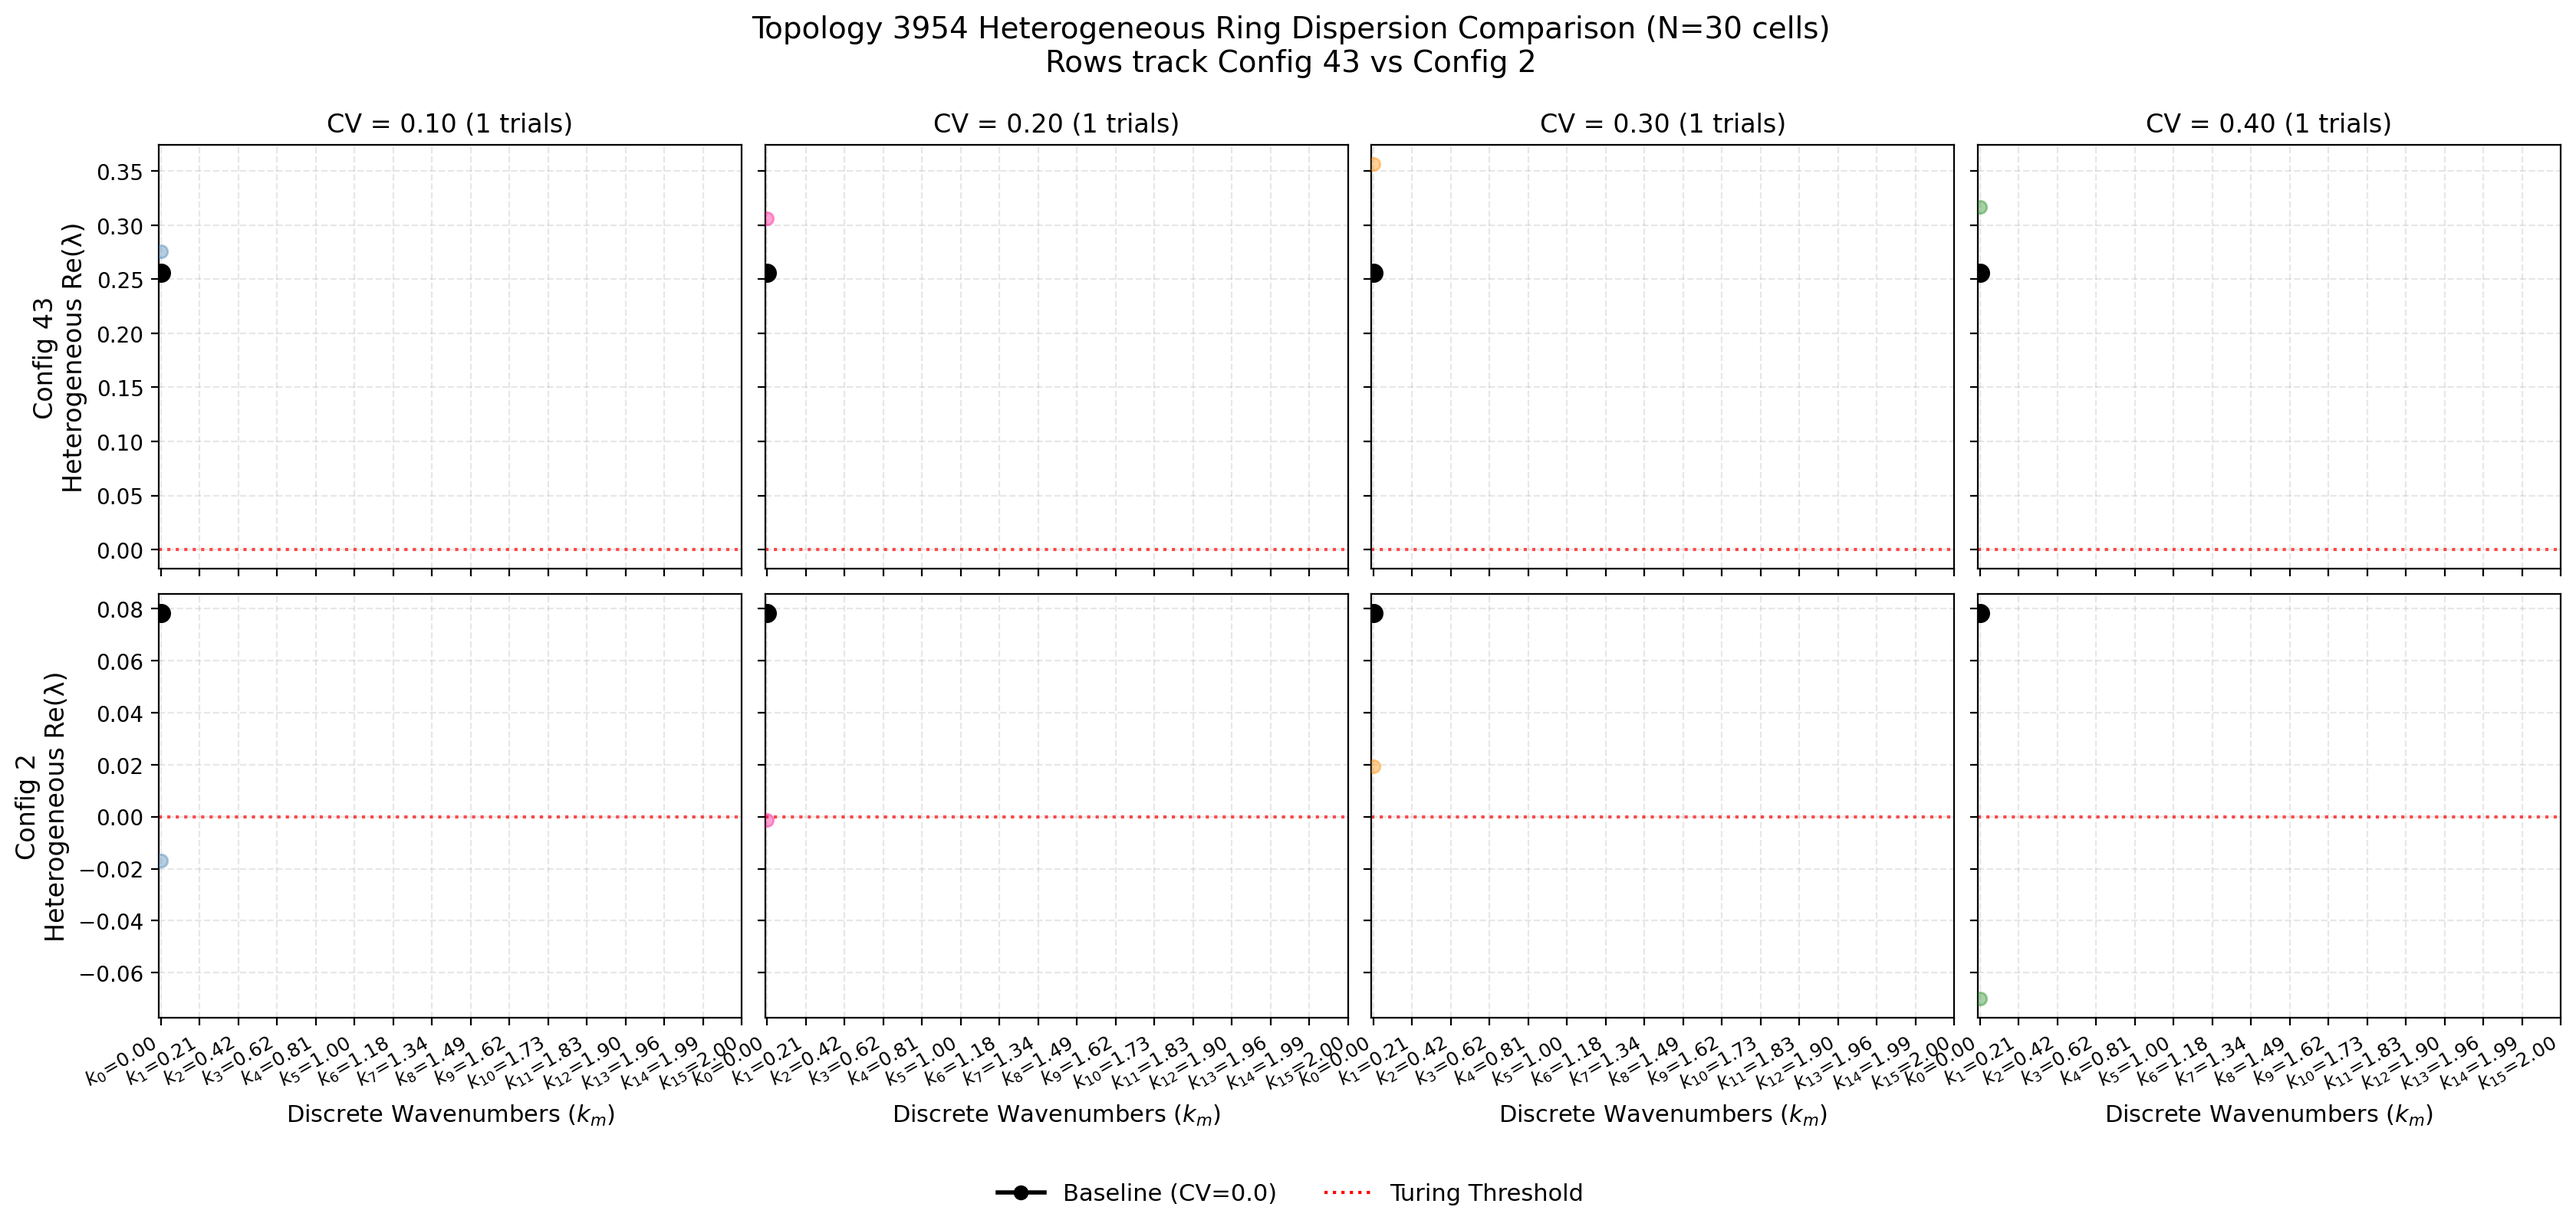
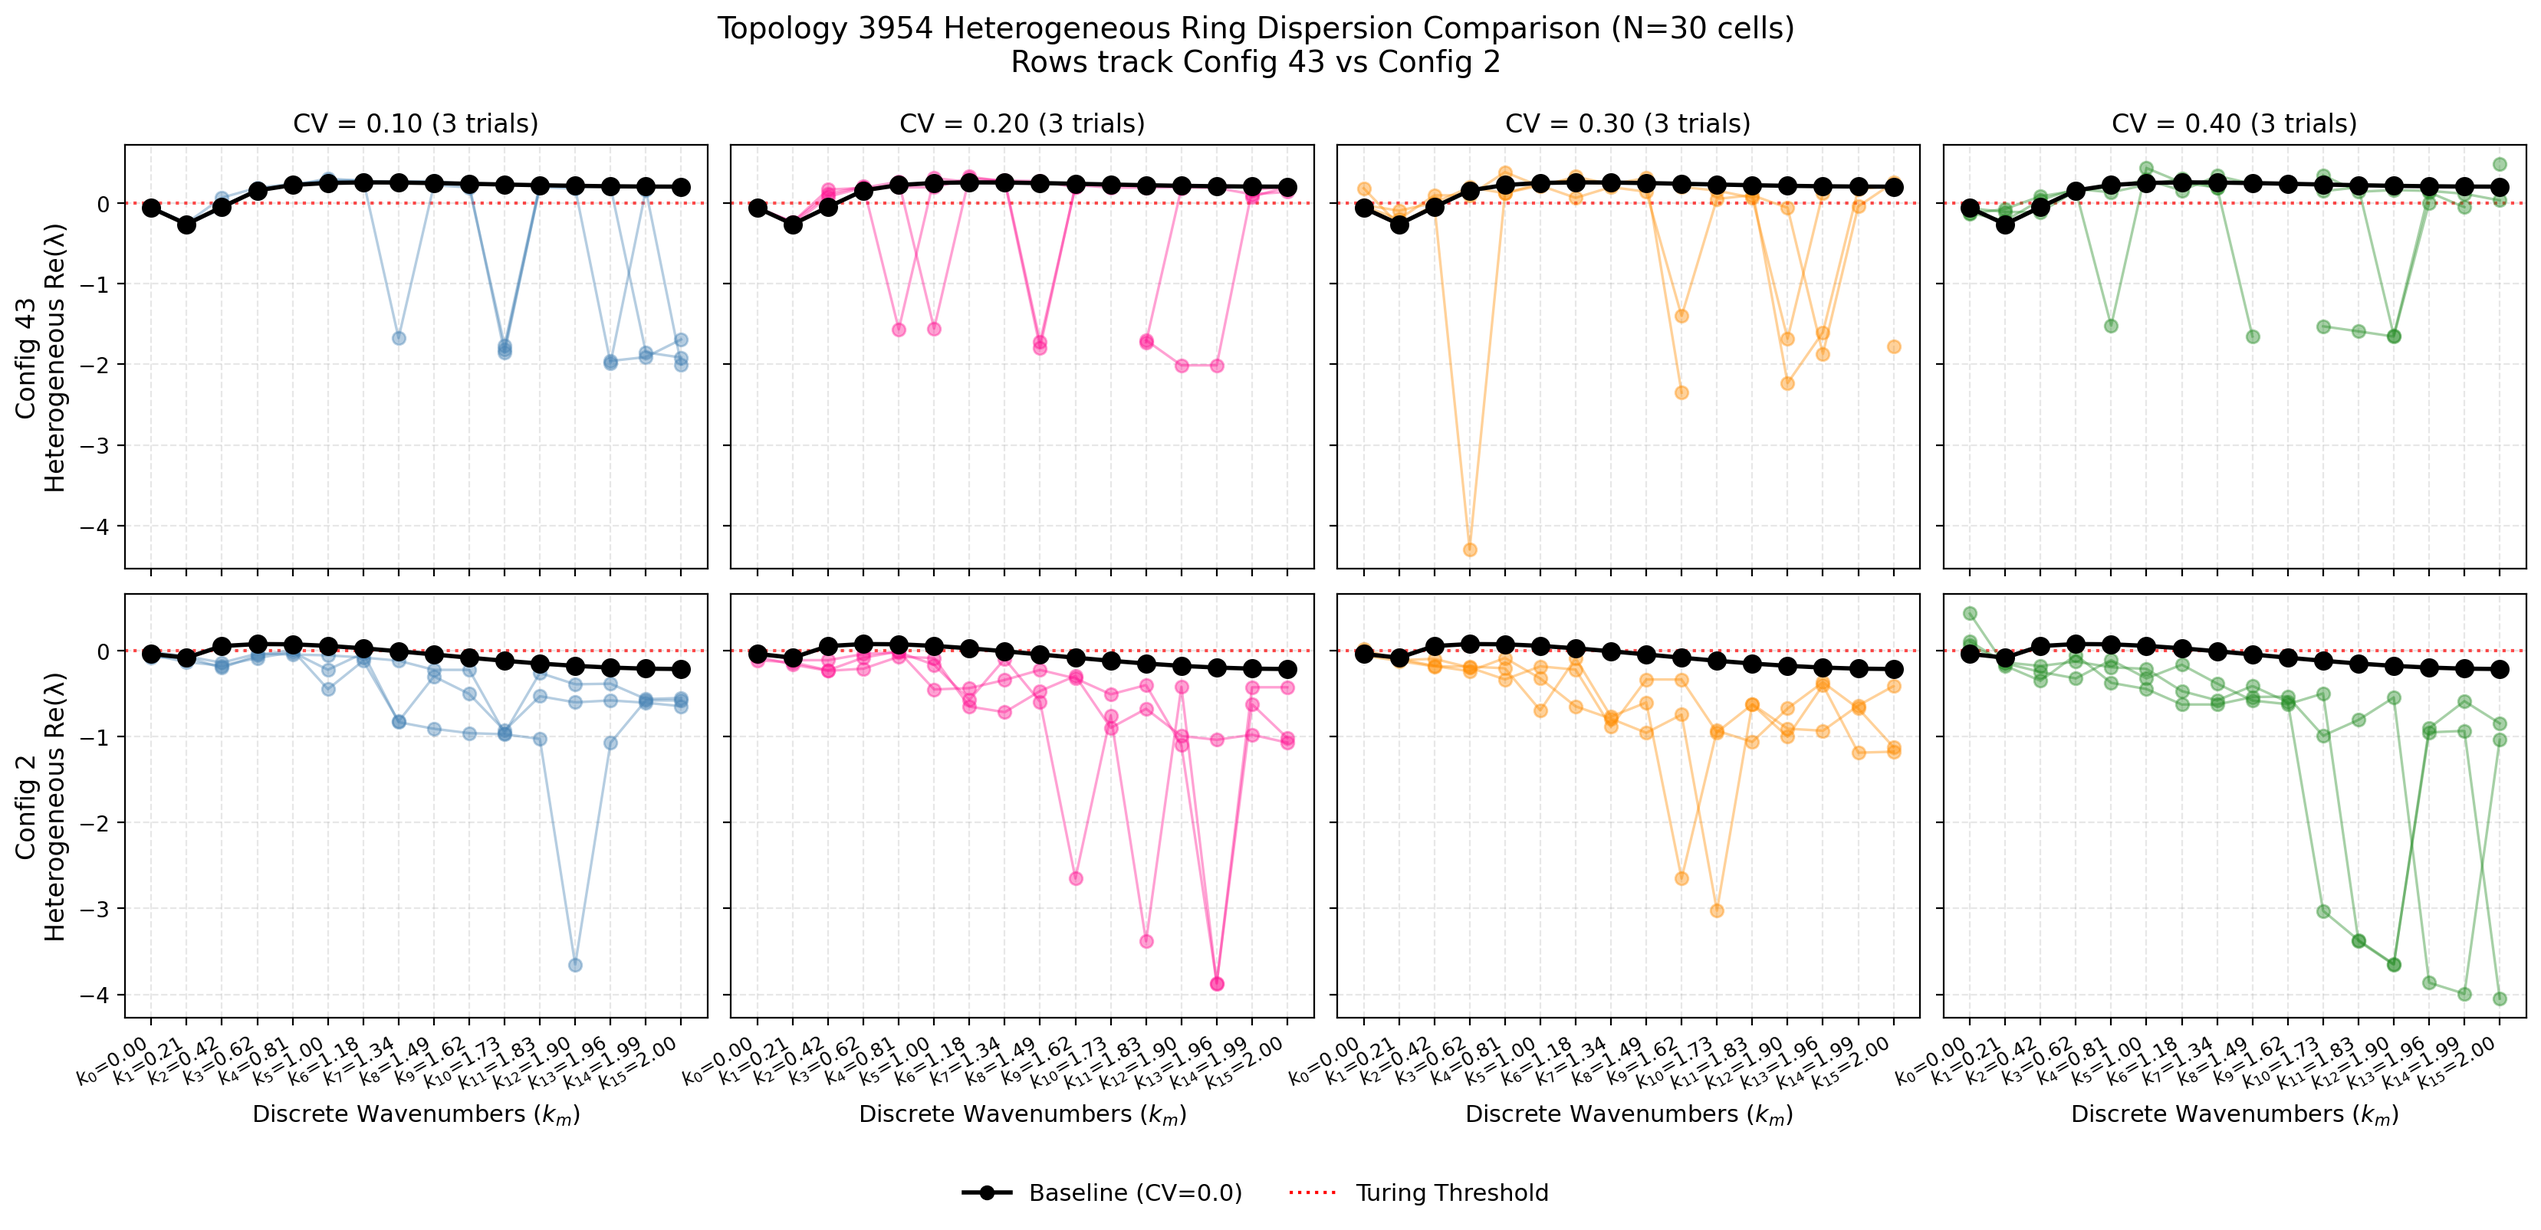
desperately trying to fix things

diff --git a/BiologicalRealism/dispersion_ring_3954.py b/BiologicalRealism/dispersion_ring_3954.py
@@ -10,7 +10,7 @@ from heterogenous_ring_3954 import compute_jacobian, find_steady_state, build_ri
 CSV_PATH = '../TopologyRanking/Topology3954/3954_FINAL_lhs_results_parameters.csv'
 CONFIG_IDS = [43, 2]
 N_RING = 30
-N_TRIALS = 1
+N_TRIALS = 3
 CV_VALUES = [0.0, 0.1, 0.2, 0.3, 0.4]
 SEED = 42
 
@@ -288,16 +288,18 @@ type_i = df[df['classification'] == 'Type-I']
 
 
 def find_dominant_k(eigenvector, N):
-    """
-    Finds the dominant wavenumber m by looking at the combined magnitude 
-    of all species across the cells to ensure robust mapping.
-    """
-    # Reshape to (N_cells, N_species) -> (30, 3)
-    reshaped = eigenvector.reshape((N, 3))
+    #OLD 
+    reshaped = eigenvector.reshape((N, 3)) # Reshape to (N_cells, N_species) -> (30, 3)
     # Take the spatial profile magnitude across all species combined
     spatial_profile = np.linalg.norm(reshaped, axis=1)
-    
     fft_mag = np.abs(np.fft.fft(spatial_profile))
+
+    #NEW
+    reshaped = eigenvector.reshape((N, 3))
+    # FFT each species separately, take magnitudes, sum across species
+    fft_per_species = np.abs(np.fft.fft(reshaped, axis=0))  # shape (N, 3)
+    fft_mag = np.sum(fft_per_species, axis=1)  # combined power per spatial frequency, length N
+
     relevant_magnitudes = fft_mag[:N // 2 + 1]
     return int(np.argmax(relevant_magnitudes))
 
@@ -315,6 +317,12 @@ def compute_heterogeneous_dispersion(baseline_params, hopping, N, CV, k_discrete
     
     eigenvalues, eigenvectors = np.linalg.eig(J_ring)
     real_parts = np.real(eigenvalues)
+
+    # NEW TO KINDA FILTER AND NOT GET THOSE WEIRD VALUES...
+    mask = real_parts > -10
+    eigenvalues = eigenvalues[mask]
+    eigenvectors = eigenvectors[:, mask]
+    real_parts = real_parts[mask]
 
     print(f"  Trial: 90 eigenvalues sorted (top 20): {np.sort(real_parts)[::-1][:20]}")
     print(f"  Median: {np.median(real_parts):.2f}, " f"min: {real_parts.min():.2f}, max: {real_parts.max():.2f}")
